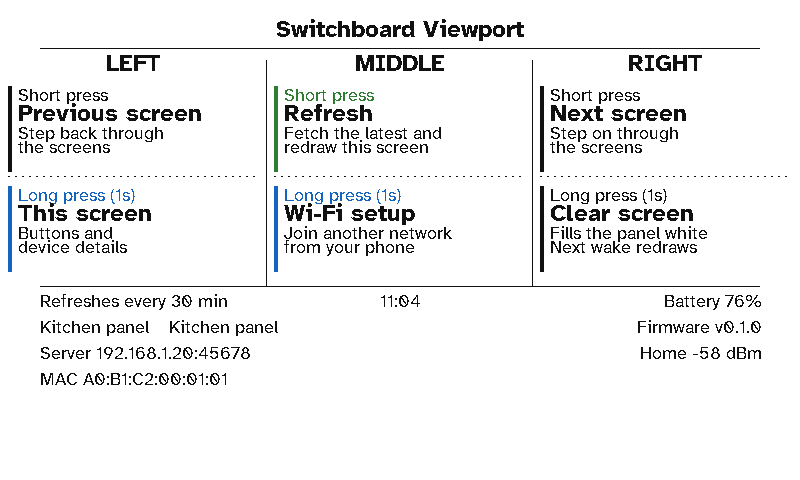
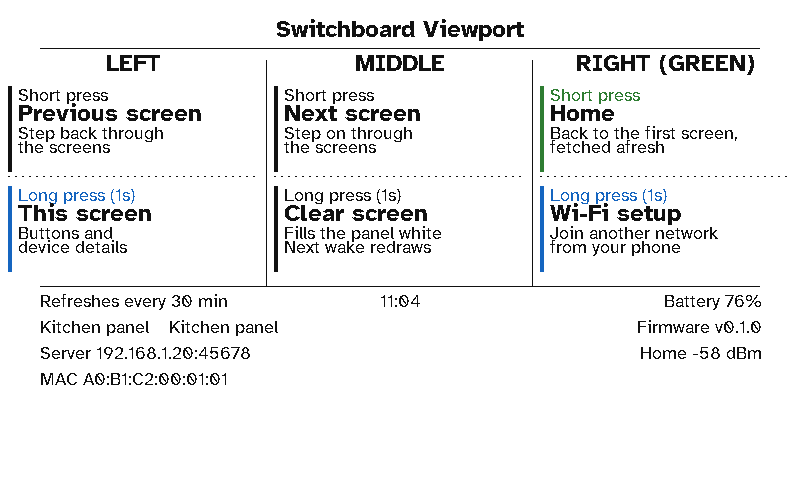
Manual: the E1002's buttons (left previous, middle next, green home)
Claude-Session: https://claude.ai/code/session_012u7Tsk3WmSPsMgQDKQsdJ4

diff --git a/docs/manual/viewport/buttons.md b/docs/manual/viewport/buttons.md
@@ -6,16 +6,15 @@ A viewport runs on battery, so it spends nearly all its time in deep sleep. It w
 
 <figure class="shot"><div class="panel"><img src="../images/viewport/device/system-info.png" alt="Device info"></div><figcaption>Device info (hold the left button): what each button does, and the display's state.</figcaption></figure>
 
+The E1002 has three buttons along its top edge: left, middle, and the green one on the right.
+
 | Button | Press | Hold (1 second) |
 |---|---|---|
-| **Left** | Previous screen (direct buttons: the last screen) | **Device info**: what each button does, the refresh interval, battery, firmware, server, Wi-Fi network and signal, MAC |
-| **Middle** (green) | Refresh: fetch the latest and redraw this screen (direct buttons: the first screen) | **Wi-Fi setup**: start the hotspot and QR codes again ([Setting up](setup.md)) |
-| **Right** | Next screen (direct buttons: the second screen) | **Clear screen**: fill the panel white. The next wake redraws it |
+| **Left** (KEY2) | Previous screen | **Device info**: what each button does, the refresh interval, battery, firmware, server, Wi-Fi network and signal, MAC |
+| **Middle** (KEY1) | Next screen | **Clear screen**: fill the panel white. The next wake redraws it |
+| **Right, green** (KEY0) | Home: the first screen, fetched afresh | **Wi-Fi setup**: start the hotspot and QR codes again ([Setting up](setup.md)) |
 
-The layout's **Carousel → Buttons** setting picks how they work:
-
-- **Step** (the default): right and left step through the layout's screens in order, wrapping round at either end, and the middle refreshes the one on show.
-- **Straight to a screen**: each button always shows the same screen, whichever is on show: the middle the first, the right the second, the left the last. The kitchen dashboard uses this, so it works as the panel's own firmware did: middle for Status, right for Heating, left for Security. Device info then names each button's screen.
+They work the same on every screen, wrapping round at either end. With the kitchen dashboard, that's the panel's own buttons from Status (green for Status, middle for Heating, left for Security), and from Heating or Security the middle and left step on and back.
 
 ## The carousel
 

diff --git a/docs/manual/server/viewports.md b/docs/manual/server/viewports.md
@@ -4,7 +4,7 @@ A viewport is a colour wall-mounted e-ink display, for example the reTerminal E1
 
 <figure class="shot"><img src="../images/admin/viewport-layout.png" alt="Building a viewport layout"><figcaption>The kitchen panel's layout in the builder: its screens, then the selected screen's sections beside a live preview from Home Assistant.</figcaption></figure>
 
-- **Carousel.** The screens the device's left/right buttons step through, in order, each with an icon for the footer's carousel marks. Between presses it stays on the current screen and just refreshes it. Optionally, every N minutes (30 by default) it can move to the next screen or go back to the first.
+- **Carousel.** The screens the display's buttons step through, in order (left previous, middle next, the green one home to the first), each with an icon for the footer's carousel marks. Between presses it stays on the current screen and just refreshes it. Optionally, every N minutes (30 by default) it can move to the next screen or go back to the first.
 - **Quiet hours.** Overnight (or any span), the display wakes only every 30, 60, 120 or 240 minutes, and shows a bed icon in its footer. See [Buttons, refresh and sleep](../viewport/buttons.md#quiet-hours).
 - **Screens** come in two kinds:
   - **Sections.** A layout (sidebar + main, two columns, three columns, or a single column) whose columns hold any sections, in any order. The same type can appear any number of times, each with its own settings. The types:

diff --git a/docs/manual/viewport/errors.md b/docs/manual/viewport/errors.md
@@ -11,7 +11,7 @@ A viewport never hangs on a problem. It shows a plain screen saying what's wrong
 
 | Screen | What to do |
 |---|---|
-| **No WiFi connection** | Check the router. If the display has never joined the saved network, it starts [Wi-Fi setup](setup.md#2-connect-it-to-wi-fi) by itself. To change the network, hold the middle button. |
+| **No WiFi connection** | Check the router. If the display has never joined the saved network, it starts [Wi-Fi setup](setup.md#2-connect-it-to-wi-fi) by itself. To change the network, hold the green button. |
 | **Not connected to Switchboard** | The server isn't running, or the display can't find it. Check that the server is up, and that mDNS works on your network. If it doesn't, enter the server's address during Wi-Fi setup. |
 | **Can't reach Home Assistant** | The server is running but can't reach Home Assistant: *Authentication failed - check token* if Home Assistant rejected the server's token, else *No response from Home Assistant*. Check **Settings → Home Assistant → Test** on the server. |
 | **CHARGE ME** | The battery is at 2% or less. The display stops using Wi-Fi until it's charged, so plug in a USB-C cable. The server's Home page warns well before this point. |

diff --git a/docs/manual/viewport/setup.md b/docs/manual/viewport/setup.md
@@ -35,7 +35,7 @@ With no Wi-Fi saved, the display starts its own hotspot and shows two QR codes:
 
 On the page, pick your network (or type its name) and enter its password. **Switchboard Server** can be left empty: the display finds the server on your network by mDNS (`_switchboard._tcp`, or `switchboard.local`). Fill it in (`192.168.1.20:45678`) only if your network blocks mDNS.
 
-The display joins the network and goes on to pair. Setup gives up after 10 minutes. To start it again at any time, for example to move the display to another network, **hold the middle button** for a second.
+The display joins the network and goes on to pair. Setup gives up after 10 minutes. To start it again at any time, for example to move the display to another network, **hold the green button** (on the right) for a second.
 
 Once the display is paired, it also uses every network saved on the server (**Settings → Wi-Fi**), the strongest first. If a network goes away, the display can still join another one it knows.
 
